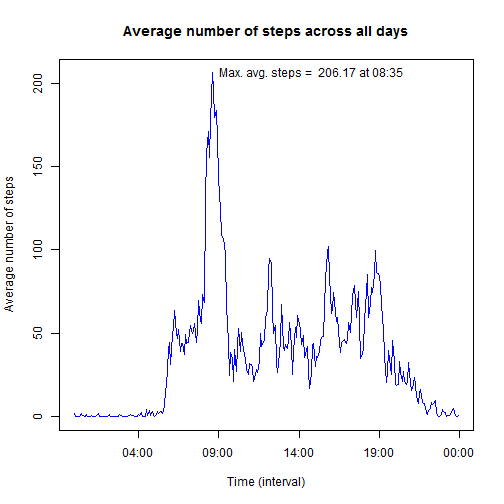
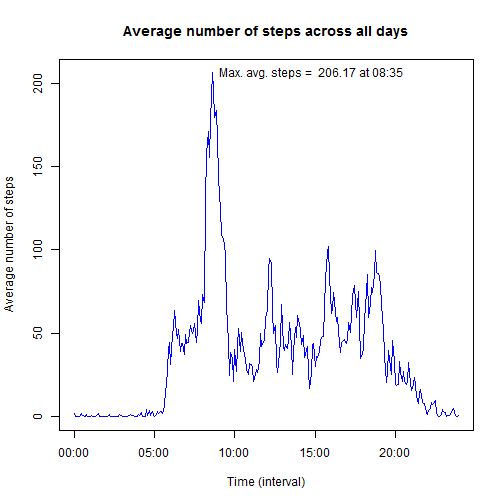
Some titles and axis were corrected

diff --git a/PA1_template.html b/PA1_template.html
@@ -210,7 +210,7 @@ Course web site:</p>
 <li>Dataset: <a href="https://d396qusza40orc.cloudfront.net/repdata%2Fdata%2Factivity.zip">Activity monitoring data</a> [52K]</li>
 </ul>
 
-<p>NOTE: Before &#39;kniting&#39; this .Rmd document, please, be sure that:</p>
+<p>NOTE: Before &#39;knitring&#39; this .Rmd document, please, be sure that:</p>
 
 <ul>
 <li>archive <em>activity.zip</em> has been downloaded and placed into your working
@@ -355,9 +355,11 @@ text(max_average_steps$time,
      pos = 4)
 </code></pre>
 
[2 lines of base64/hex data omitted]
 
-<p>As you can see maximum average steps
+<h3>Which 5-minute interval contains the maximum number of steps?</h3>
+
+<p>As you can see from <em>max_average_steps</em> maximum average steps
 <strong>206.17</strong> 
 was made during <strong>835</strong> interval.</p>
 
@@ -500,25 +502,25 @@ I made new variable <strong>type_of_day</strong> which separates weekdays and we
 </code></pre>
 
 <p>After that I made a time series plot of the 5-minute intervals
-(as it was required in the task) and the average number of steps, averaged
+(in time format) and the average number of steps, averaged
 across all weekday days or weekend days:</p>
 
 <pre><code class="r">require(lattice)
-average_steps_by_daytype &lt;- aggregate(steps ~ interval + type_of_day,
+average_steps_by_daytype &lt;- aggregate(steps ~ time + type_of_day,
                                       data = data, mean)
 xyplot(
         data = average_steps_by_daytype,
-        steps ~ interval | type_of_day,
+        steps ~ time | type_of_day,
         main = &quot;Average number of steps by type of days&quot;,
-        xlab = &quot;Interval&quot;,
-        ylab = &quot;Steps&quot;,
+        xlab = &quot;Time (interval)&quot;,
+        ylab = &quot;Number of steps&quot;,
         layout = c(1,2),
         scales = list(format = &quot;%H:%M&quot;),
         type = &quot;l&quot;
 )
 </code></pre>
 
[2 lines of base64/hex data omitted]
 
 <p>As you can see patterns of activities during weekdays and weekends are visibly
 different:</p>

diff --git a/PA1_template.md b/PA1_template.md
@@ -12,7 +12,7 @@ Course web site:
 
 * Dataset: [Activity monitoring data](https://d396qusza40orc.cloudfront.net/repdata%2Fdata%2Factivity.zip) [52K]
 
-NOTE: Before 'kniting' this .Rmd document, please, be sure that:
+NOTE: Before 'knitring' this .Rmd document, please, be sure that:
 
 * archive _activity.zip_ has been downloaded and placed into your working
 directory (WDIR);
@@ -166,7 +166,9 @@ text(max_average_steps$time,
 
 ![plot of chunk unnamed-chunk-10](figure/unnamed-chunk-10-1.png) 
 
-As you can see maximum average steps
+### Which 5-minute interval contains the maximum number of steps?
+
+As you can see from _max_average_steps_ maximum average steps
 __206.17__ 
 was made during __835__ interval.
 
@@ -322,19 +324,19 @@ data$type_of_day <- ifelse(data$weekday == "Saturday" |
 ```
 
 After that I made a time series plot of the 5-minute intervals
-(as it was required in the task) and the average number of steps, averaged
+(in time format) and the average number of steps, averaged
 across all weekday days or weekend days:
 
 ```r
 require(lattice)
-average_steps_by_daytype <- aggregate(steps ~ interval + type_of_day,
+average_steps_by_daytype <- aggregate(steps ~ time + type_of_day,
                                       data = data, mean)
 xyplot(
         data = average_steps_by_daytype,
-        steps ~ interval | type_of_day,
+        steps ~ time | type_of_day,
         main = "Average number of steps by type of days",
-        xlab = "Interval",
-        ylab = "Steps",
+        xlab = "Time (interval)",
+        ylab = "Number of steps",
         layout = c(1,2),
         scales = list(format = "%H:%M"),
         type = "l"
